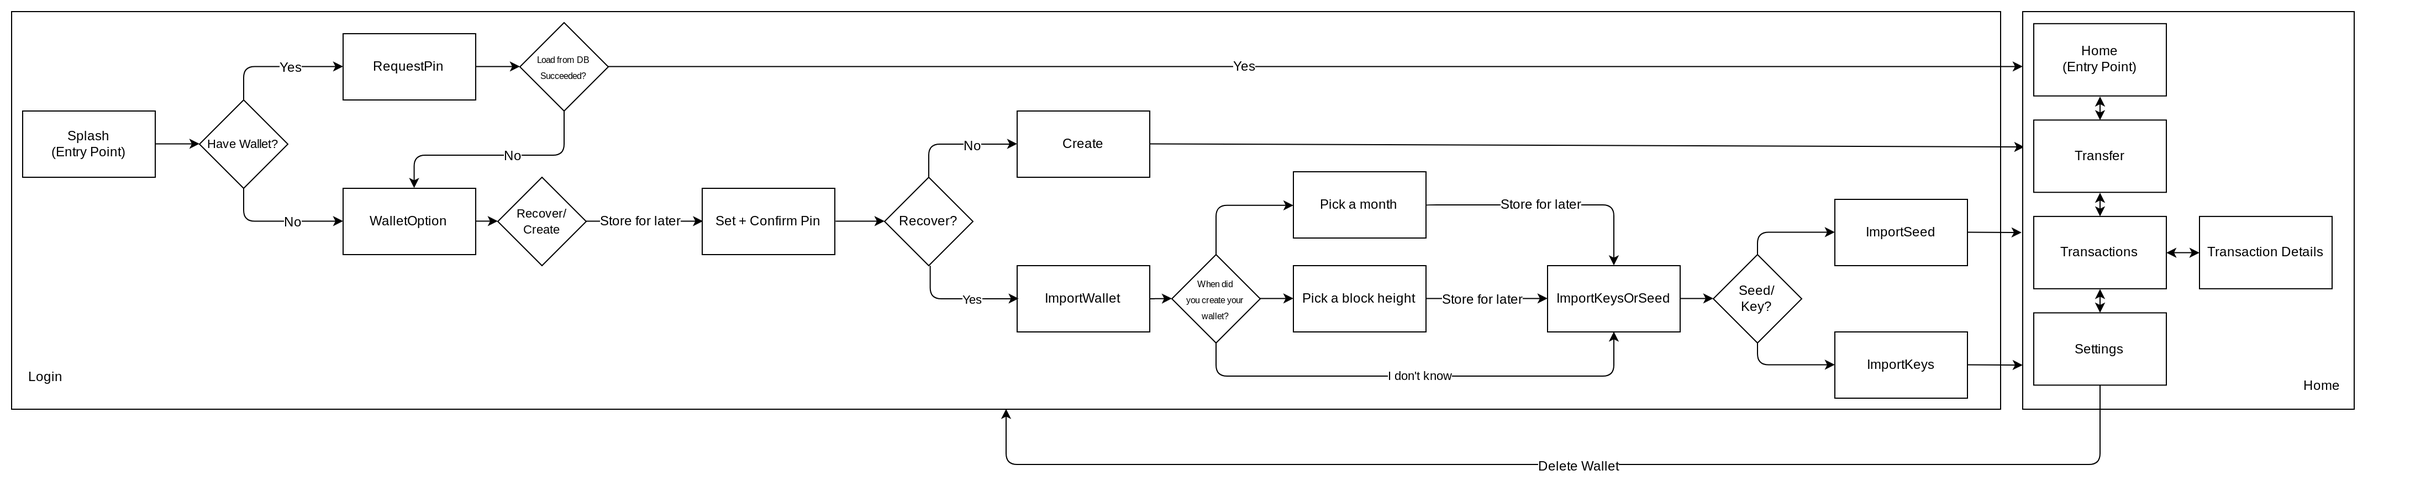
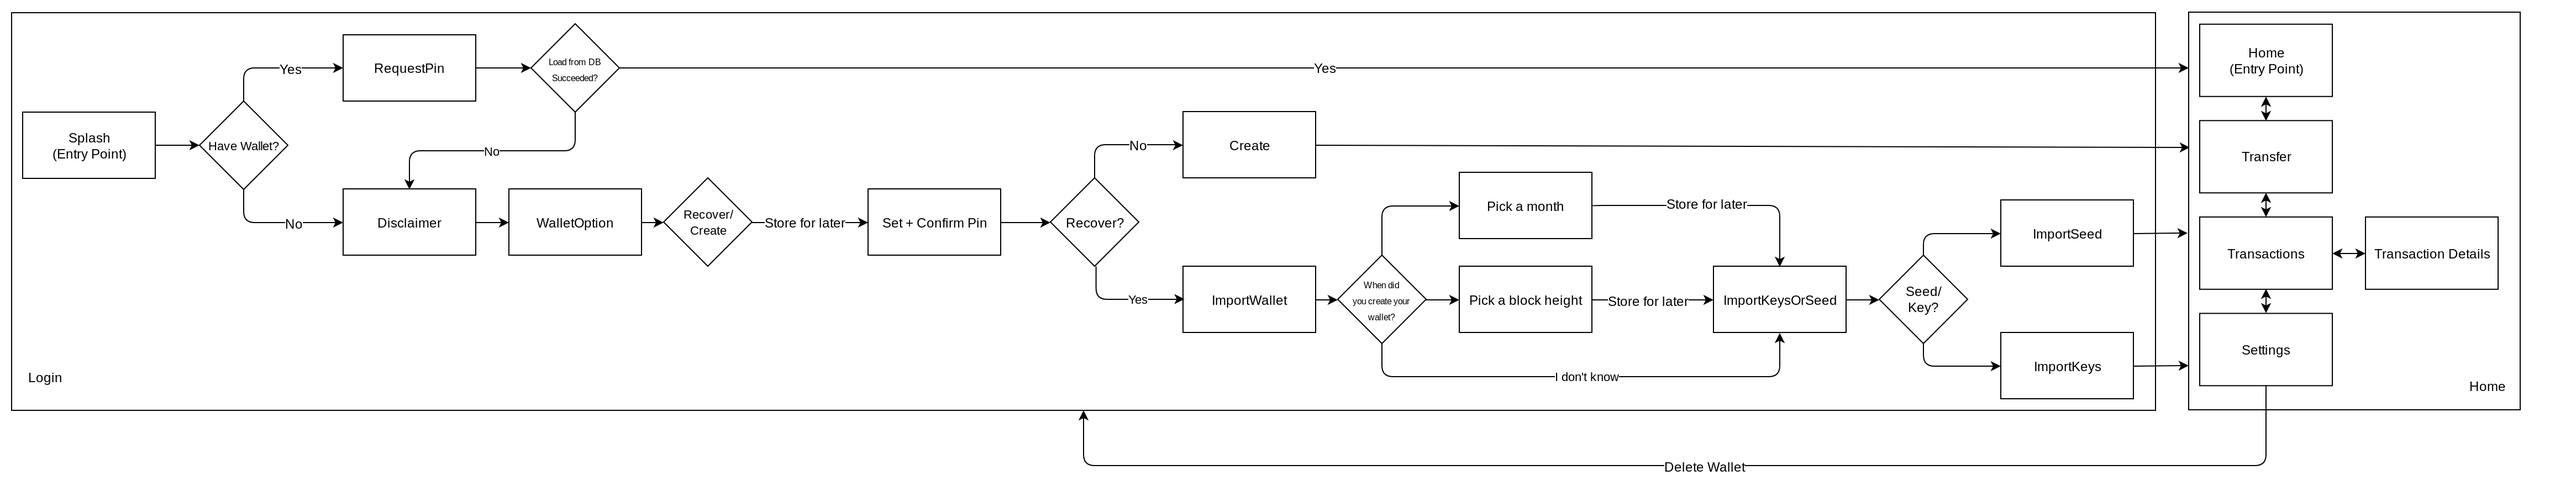
Update flowcharts

diff --git a/src/Pin.js b/src/Pin.js
@@ -70,7 +70,7 @@ export class RequestPinScreen extends React.Component {
 
     fail(msg) {
         console.log(msg);
-        this.props.navigation.dispatch(navigateWithDisabledBack('WalletOption'));
+        this.props.navigation.dispatch(navigateWithDisabledBack('Disclaimer'));
     }
 
     /**
